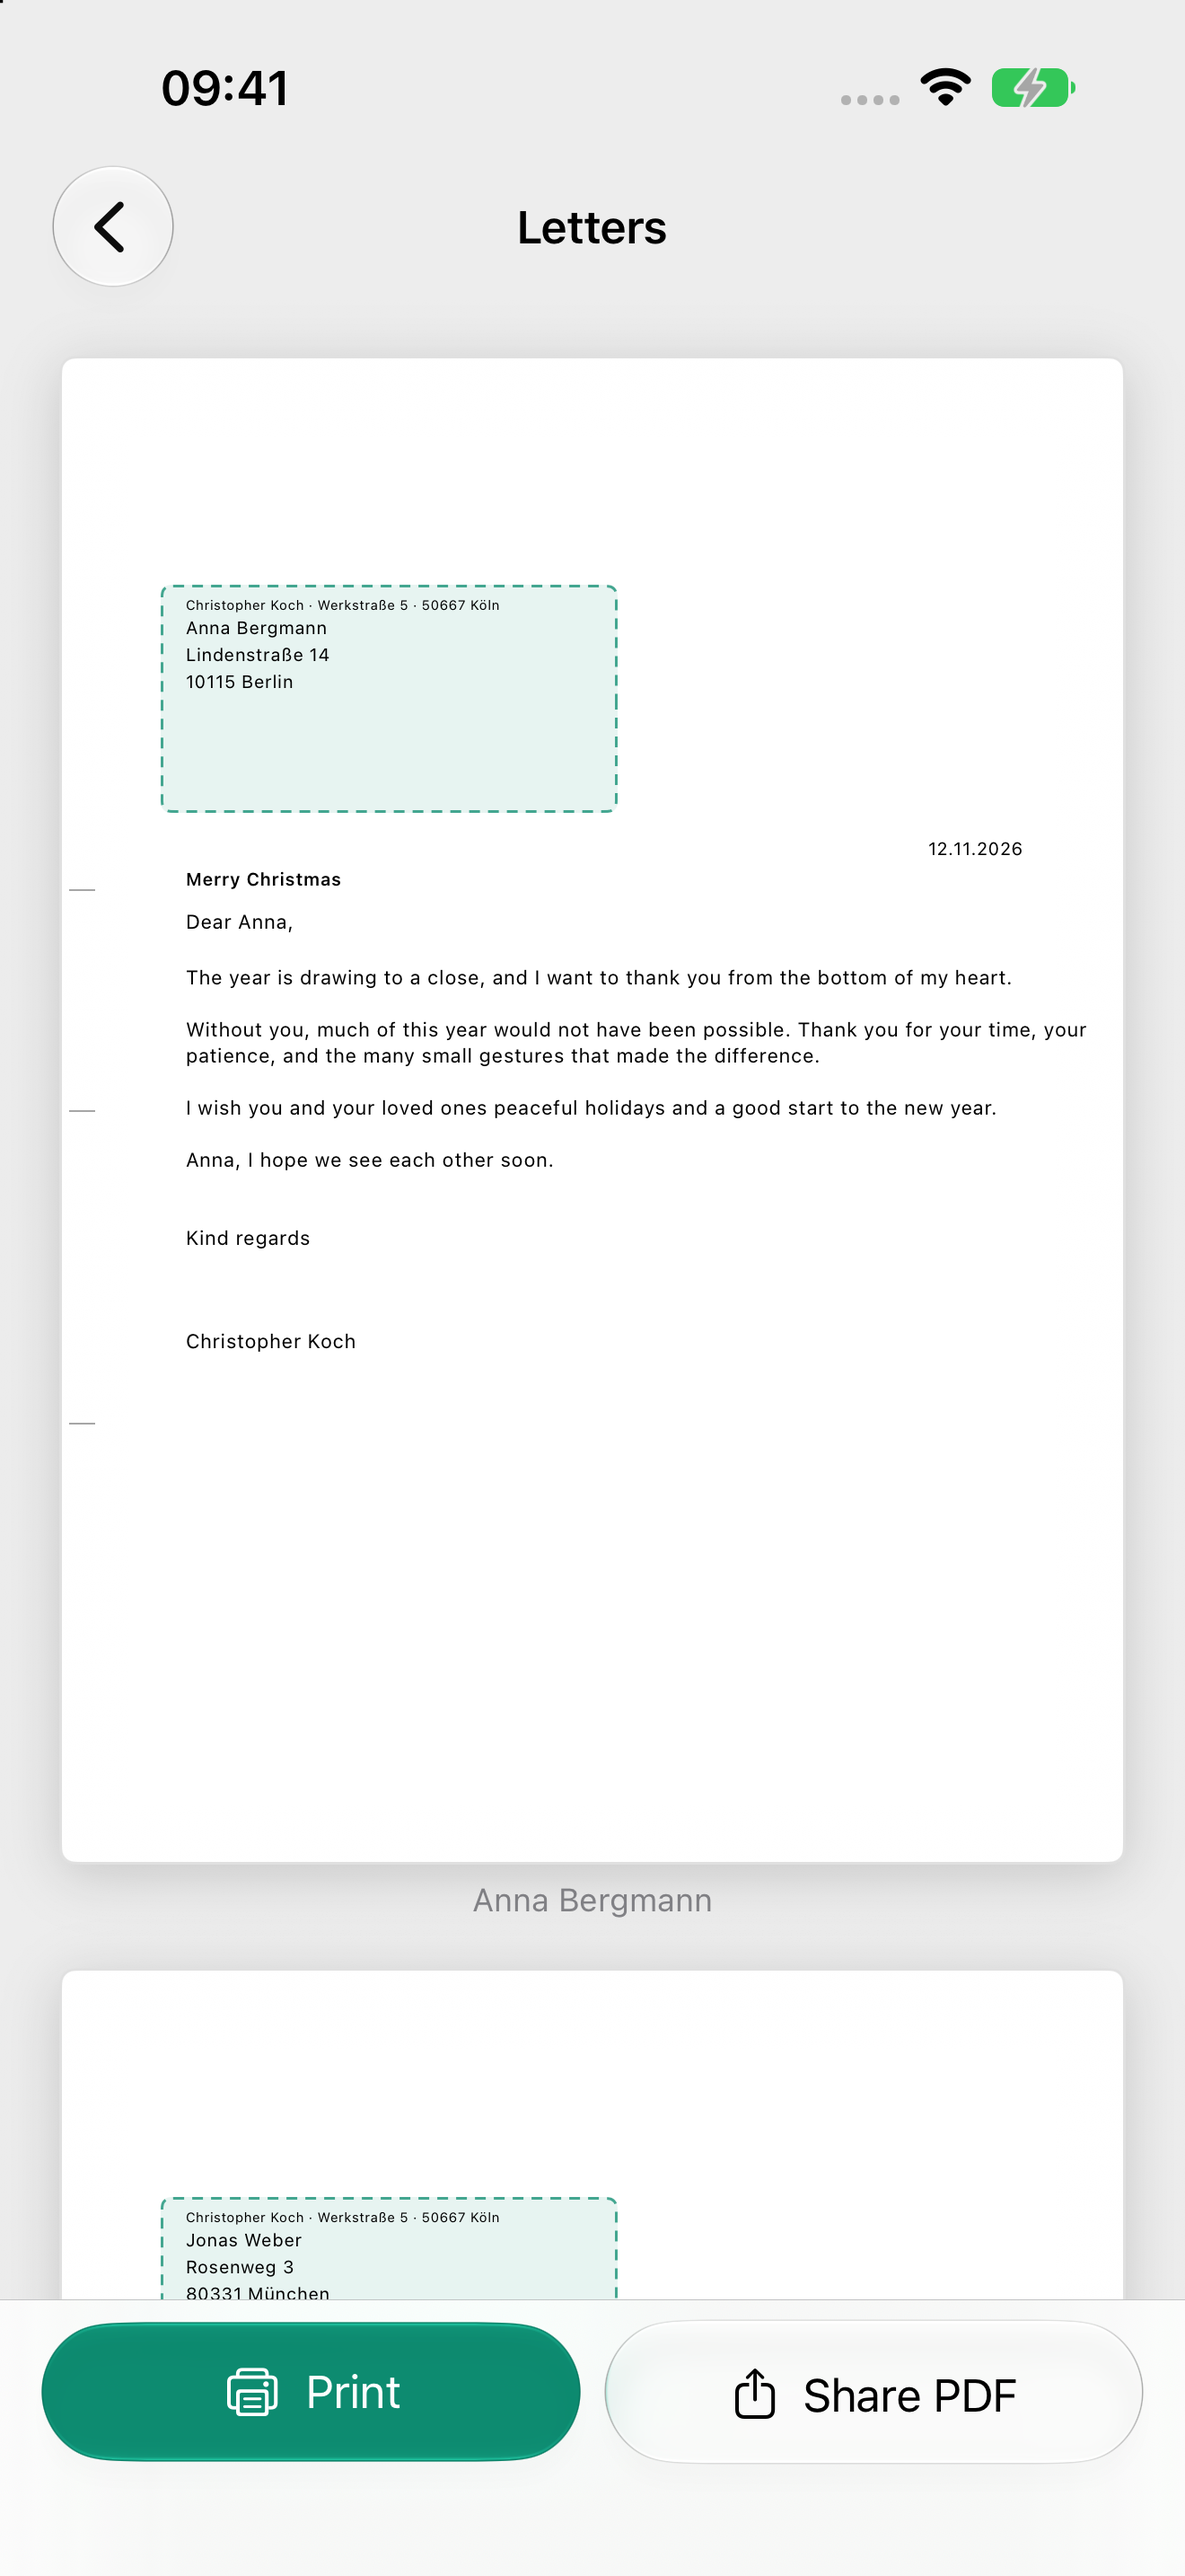
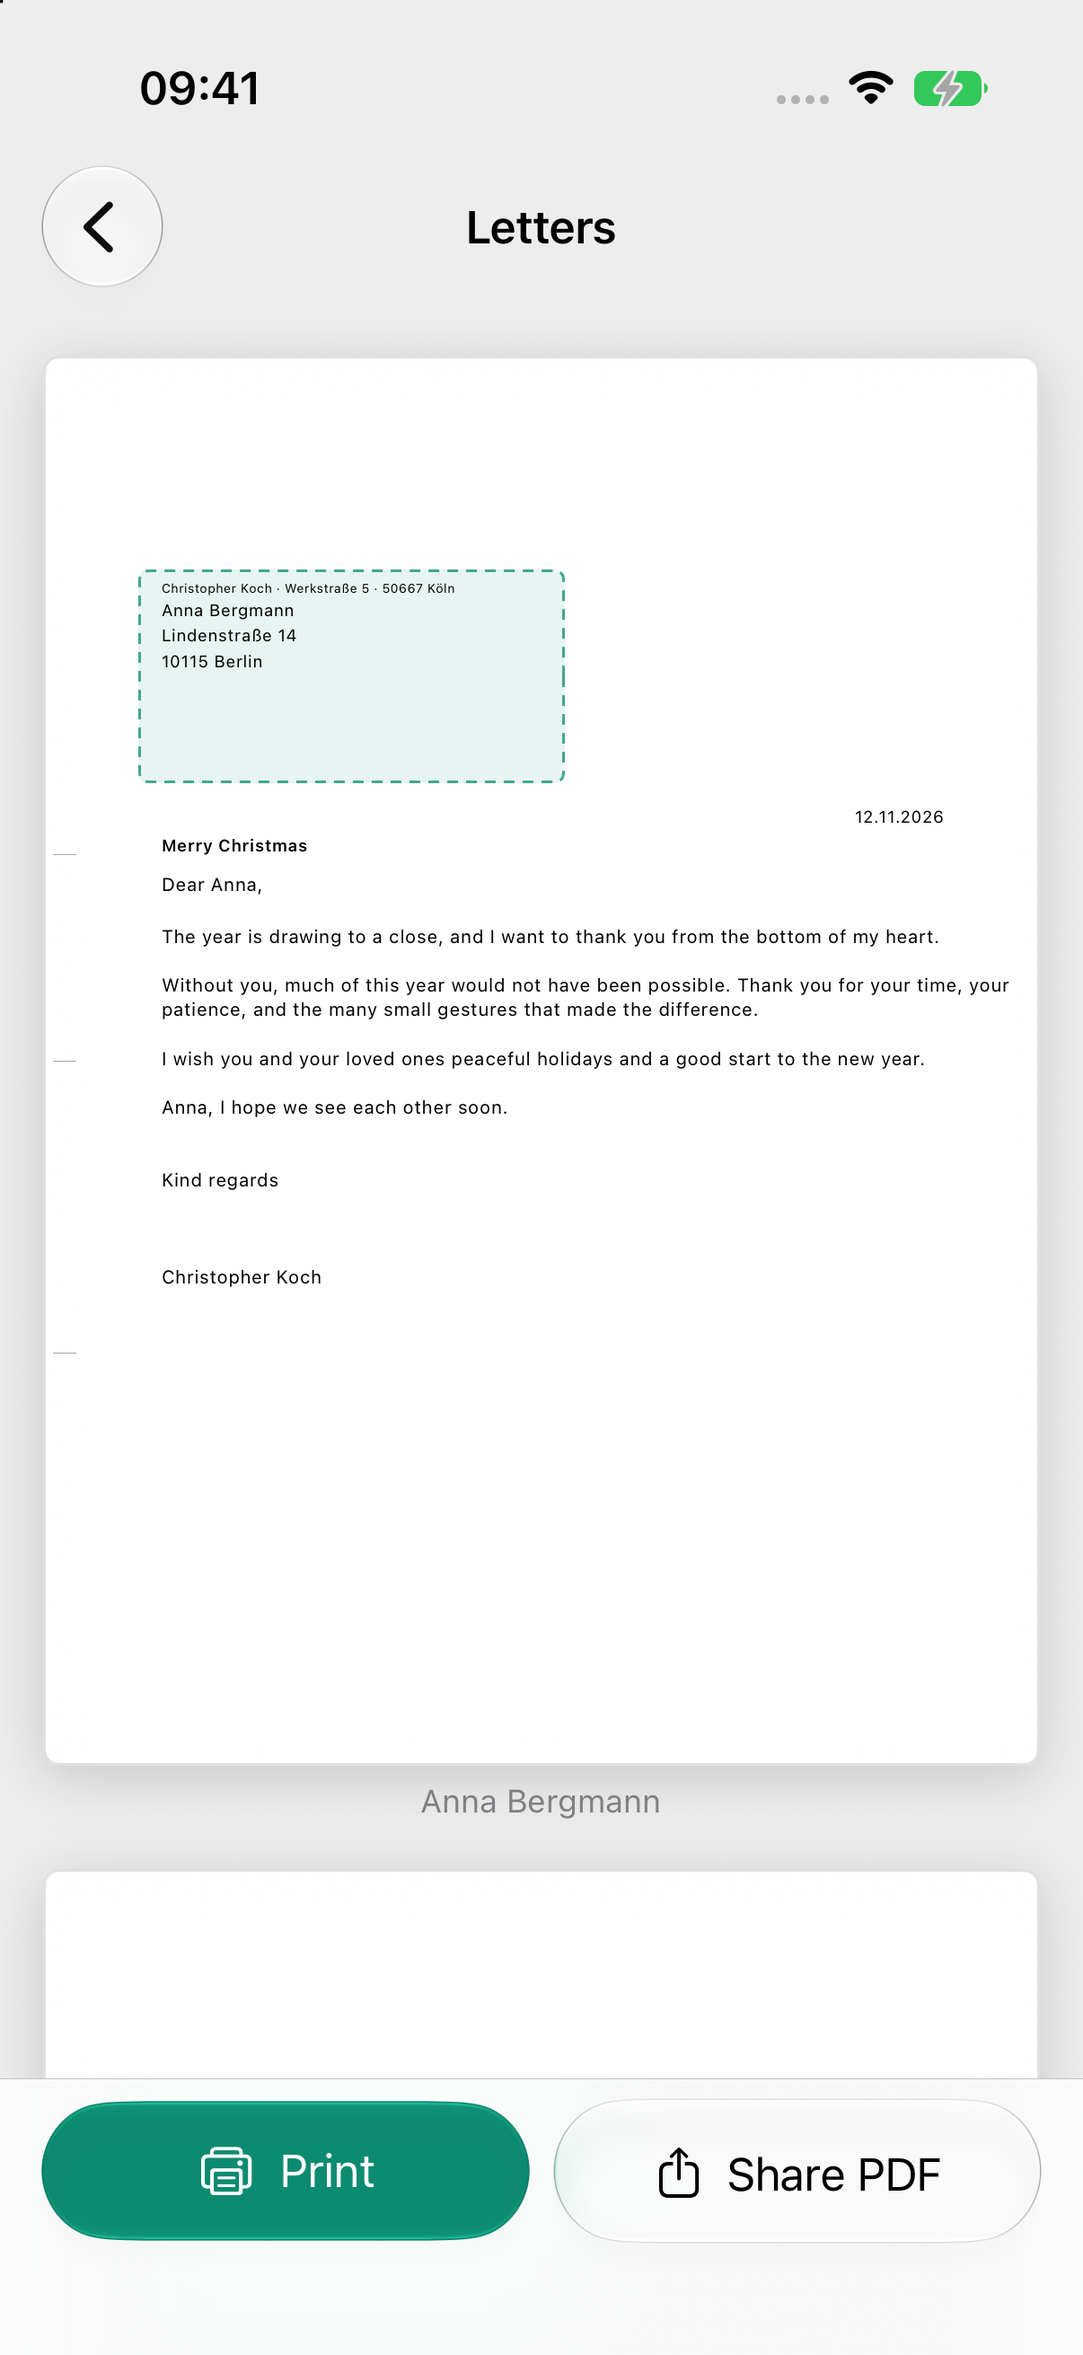
Postlet page: letters only, paid up front (#14)
Postlet and Labellet split. Postlet keeps letters, so the page no longer
promises labels and no longer mentions Pro — the app has no in-app purchase
any more.

- New tagline, description and highlights built around "one letter per
  recipient" instead of labels
- New icon (a letter sheet with an envelope) and new screenshots from the
  letters flow; the label preview and paywall shots are removed
- Privacy and support rewritten: no purchases, no network requests at all,
  folklore answers for fold marks and window envelopes

diff --git a/public/apps/postlet/index.html b/public/apps/postlet/index.html
@@ -4,12 +4,12 @@
 <meta charset="utf-8">
 <meta name="viewport" content="width=device-width, initial-scale=1">
 <meta name="apple-itunes-app" content="app-id=6833696477">
-<title>Postlet — Labels and letters, printed</title>
-<meta name="description" content="Print A4 address labels and DIN 5008 letters for a whole address list on your own printer. No account, nothing uploaded.">
+<title>Postlet — A personal letter for every recipient</title>
+<meta name="description" content="Write one letter and print it for everyone on your list. DIN 5008 Form B, window envelopes, a real preview — on your own printer. No account, nothing uploaded.">
 <meta property="og:type" content="website">
 <meta property="og:url" content="https://koch.codes/apps/postlet/">
-<meta property="og:title" content="Postlet — Labels and letters, printed">
-<meta property="og:description" content="Print A4 address labels and DIN 5008 letters for a whole address list on your own printer. No account, nothing uploaded.">
+<meta property="og:title" content="Postlet — A personal letter for every recipient">
+<meta property="og:description" content="Write one letter and print it for everyone on your list. DIN 5008 Form B, window envelopes, a real preview — on your own printer. No account, nothing uploaded.">
 <meta property="og:image" content="https://koch.codes/apps/postlet/media/og.png">
 <meta property="og:image:width" content="1200">
 <meta property="og:image:height" content="630">
@@ -31,9 +31,10 @@
     <div class="app-hero-text">
       <img class="app-icon" src="icon.png" width="96" height="96" alt="Postlet app icon">
       <h1 id="app-name">Postlet</h1>
-      <p class="tagline">Labels and letters, printed.</p>
-      <p class="intro">Print A4 address labels and DIN 5008 letters for a whole
-      address list, on your own printer. No account, no cloud, nothing uploaded.</p>
+      <p class="tagline">A personal letter for every recipient.</p>
+      <p class="intro">Write the letter once. Postlet prints it for everyone on your
+      list, each on its own page, addressed to that person — on your own printer.
+      No account, no cloud, nothing uploaded.</p>
       <div class="store-row">
       <a class="store-badge" href="https://apps.apple.com/app/id6833696477">
         <svg viewBox="0 0 384 512" fill="currentColor" aria-hidden="true"><path d="M318.7 268.7c-.2-36.7 16.4-64.4 50-84.8-18.8-26.9-47.2-41.7-84.7-44.6-35.5-2.8-74.3 20.7-88.5 20.7-15 0-49.4-19.7-76-19.7C63.3 141.2 4 184.8 4 273.5q0 39.3 14.4 81.2c12.8 36.7 59 126.7 107.2 125.2 25.2-.6 43-17.9 75.8-17.9 31.8 0 48.3 17.9 76.4 17.9 48.6-.7 90.4-82.5 102.6-119.3-65.2-30.7-61.7-90-61.7-91.9zm-56.6-164.2c27.3-32.4 24.8-61.9 24-72.5-24.1 1.4-52 16.4-67.9 34.9-17.5 19.8-27.8 44.3-25.6 71.9 26.1 2 49.9-11.4 69.5-34.3z"/></svg>
@@ -43,29 +44,33 @@
       <ul class="chips" aria-label="Details"><li>iPhone &amp; iPad</li><li>iOS 18 or later</li><li>Productivity</li></ul>
     </div>
     <div class="device">
-      <img src="media/preview.png" width="1320" height="2868" alt="Sheet preview showing twelve addresses laid out on an A4 label sheet" fetchpriority="high">
+      <img src="media/start.png" width="1320" height="2868" alt="Postlet start screen offering to write a letter, with saved recipient lists below" fetchpriority="high">
     </div>
   </section>
 
   <section class="section about">
     <div class="prose">
       <h2 class="section-title">What is Postlet?</h2>
-      <p>Pick recipients, choose your sheet, print. Labels are drawn as vector
-      graphics at exact page positions, so they line up instead of drifting. One
-      personalised letter per recipient follows the same list.</p>
+      <p>You have something to say to twelve people, and you want each of them to get
+      a real letter rather than a forwarded email. Postlet writes it once and prints
+      it twelve times: same text, each page addressed to one person, laid out to DIN
+      5008 Form B so it shows through a standard window envelope.</p>
+      <p>The preview is drawn from the same geometry the PDF uses, so what you see on
+      screen is what comes out of the printer — including the envelope window that the
+      address has to fit inside.</p>
     </div>
     <div>
       <h2 class="section-title">Highlights</h2>
       <ul class="features">
-          <li>Address labels for any A4 or Letter sheet, at exact positions</li>
-          <li>One personalised letter per recipient, DIN 5008 Form B for window envelopes</li>
-          <li>Fold marks that match the envelope you actually post in</li>
-          <li>Contacts picker, CSV import with column mapping, saved lists</li>
-          <li>Per-printer alignment correction — print a test sheet, save the offset</li>
-          <li>Print on a partly used sheet by choosing a start cell</li>
-          <li><strong>Free</strong>: up to 10 recipients per job, unlimited return-address sheets</li>
-          <li><strong>Postlet Pro</strong> (€9.99 once): no limit, saved lists, CSV import, more sheets, per-printer alignment</li>
-          <li>No account, no ads, no analytics — addresses never leave your device</li>
+          <li>DIN 5008 Form B layout: 25&nbsp;mm margin, address field at 45&nbsp;mm, 20&nbsp;mm filing margin</li>
+          <li>One letter per recipient, each starting on its own page</li>
+          <li><code>{name}</code> in the salutation or body becomes that recipient's first name</li>
+          <li>Window envelopes: DIN lang, C6/5, C6, C5 — the preview shows where the window lands</li>
+          <li>Fold marks and punch hole at their real positions, so folding is not guesswork</li>
+          <li>Contacts picker, CSV import and saved lists for the same people next year</li>
+          <li>Vector PDF, so text stays sharp at any printer resolution</li>
+          <li>Buy once. No subscription, no in-app purchase, no account</li>
+          <li>No ads, no analytics — addresses never leave your device</li>
       </ul>
     </div>
   </section>
@@ -73,10 +78,9 @@
   <section class="section" aria-labelledby="shots-title">
     <h2 class="section-title" id="shots-title">Screenshots</h2>
     <div class="shots few">
-      <figure><img src="media/recipients.png" width="1320" height="2868" alt="Recipients list with twelve addresses" loading="lazy"><figcaption>Your recipients</figcaption></figure>
-      <figure><img src="media/preview.png" width="1320" height="2868" alt="Sheet preview showing labels laid out on the page" loading="lazy"><figcaption>Exactly how it prints</figcaption></figure>
-      <figure><img src="media/letterPreview.png" width="1320" height="2868" alt="Letter preview with the envelope window outlined over the address" loading="lazy"><figcaption>The window, checked</figcaption></figure>
-      <figure><img src="media/paywall.png" width="1320" height="2868" alt="Postlet Pro features and price" loading="lazy"><figcaption>One purchase, no subscription</figcaption></figure>
+      <figure><img src="media/recipients.png" width="1320" height="2868" alt="Recipients screen listing twelve saved addresses" loading="lazy"><figcaption>Your recipients</figcaption></figure>
+      <figure><img src="media/letter.png" width="1320" height="2868" alt="Letter composer with salutation, subject and body text" loading="lazy"><figcaption>Written once</figcaption></figure>
+      <figure><img src="media/letterPreview.png" width="1320" height="2868" alt="Letter preview with the envelope window outlined over the address block" loading="lazy"><figcaption>The window, checked</figcaption></figure>
     </div>
   </section>
 

diff --git a/public/apps/postlet/support.html b/public/apps/postlet/support.html
@@ -16,56 +16,56 @@
 
   <div class="card">
     <p style="margin:0">Email <a href="mailto:feedback@koch.codes">feedback@koch.codes</a>
-    and we'll get back to you. Please include your printer model and the label
-    sheet you used if you're reporting an alignment problem. Please don't send
-    real address lists.</p>
+    and we'll get back to you. Please include your printer model and the envelope
+    you used if you're reporting a layout problem. Please don't send real address
+    lists.</p>
   </div>
 
-  <h2>How do I print labels?</h2>
-  <p>Open Postlet, choose <em>Address labels</em>, add recipients from Contacts,
-  type them in or import a CSV, then pick your sheet and tap <em>Preview</em>.
-  From there you can print or share the PDF.</p>
+  <h2>How do I print letters?</h2>
+  <p>Open Postlet, tap <em>Write a letter</em>, add recipients from Contacts, type
+  them in or import a CSV, then tap <em>Write the letter</em>. Fill in the
+  salutation, subject and body, then tap <em>Preview</em>. From there you can print
+  or share the PDF.</p>
 
-  <h2>My labels are slightly off the sheet</h2>
-  <p>That is normal — every printer shifts slightly. Open <em>Test sheet &amp;
-  alignment</em>, print the test sheet on plain paper, hold it against a real
-  label sheet and compare the cell edges. Then save a correction for that
-  printer. Each printer can have its own.</p>
-
-  <h2>Printing at 100%</h2>
-  <p>In the print dialog choose <strong>100%</strong> or <strong>Actual
-  Size</strong>. "Fit to Page" rescales the page and moves every label, so
-  nothing lines up.</p>
-
-  <h2>What is a partial sheet?</h2>
-  <p>If you have already used some labels, choose a start cell. The labels before
-  that cell stay empty, exactly like on paper, so you don't waste a sheet.</p>
-
-  <h2>Which envelope should I choose?</h2>
-  <p>Pick the one you actually post in. Postlet lays the letter out to DIN 5008
-  Form B (a German standard) and prints fold marks for that envelope, then shows
-  the window in the preview so you can confirm the address will be visible.</p>
-
-  <h2>How does {name} work?</h2>
+  <h2>What does {name} do?</h2>
   <p>Write the letter once and use <code>{name}</code> wherever the first name
   belongs — in the salutation or the body. Each recipient then gets their own
   letter. If a name is a company or a single word, Postlet uses the whole name
   instead of guessing a first name.</p>
 
-  <h2>What is free, what is Pro?</h2>
-  <p>Free prints up to 10 recipient labels or letters per job, and return-address
-  sheets are always unlimited. Postlet Pro is a one-time purchase (no
-  subscription) that removes the limit and adds saved lists, CSV import, more
-  label sheets, your own sheet measurements and per-printer alignment.
-  <em>Restore purchase</em> is on the Pro screen.</p>
+  <h2>Which envelope should I choose?</h2>
+  <p>Pick the one you actually post in. Postlet lays the letter out to DIN 5008
+  Form B (a German standard) and prints fold marks for that envelope, then shows
+  the window in the preview so you can confirm the address will be visible. If the
+  preview warns that an address does not fit the window, shorten it or choose a
+  larger envelope.</p>
+
+  <h2>Where do the fold marks go?</h2>
+  <p>The preview draws the same marks the PDF prints, in the left filing margin.
+  Fold there and the address block ends up in the window of the envelope you
+  selected.</p>
+
+  <h2>Printing at 100%</h2>
+  <p>In the print dialog choose <strong>100%</strong> or <strong>Actual
+  Size</strong>. "Fit to Page" rescales the page and moves the address block, so
+  it may no longer line up with the envelope window.</p>
+
+  <h2>My letter is slightly off</h2>
+  <p>Check that the print dialog is not set to scale the page, and that your
+  printer is feeding A4 rather than US Letter. Postlet draws everything at the
+  exact physical page size, so a correct printer needs no adjustment.</p>
+
+  <h2>Do I have to pay again?</h2>
+  <p>No. Postlet is a one-time purchase. There is no subscription, no in-app
+  purchase and no account — every feature is available the first time you open
+  the app.</p>
 
   <h2>Do my addresses leave my device?</h2>
   <p>No. There is no account and no server, and no address is ever uploaded. You
   can delete every saved address in Settings.</p>
 
   <h2>Does it work offline?</h2>
-  <p>Yes. Postlet needs no internet connection. iOS contacts the App Store only
-  to load or restore the purchase.</p>
+  <p>Yes, completely. Postlet makes no network requests at all.</p>
 
   <footer>&copy; Christopher Koch &middot; <a href="index.html">Postlet</a> &middot; <a href="privacy.html">Privacy Policy</a></footer>
 </div>

diff --git a/public/apps/postlet/privacy.html b/public/apps/postlet/privacy.html
@@ -14,9 +14,8 @@
   <h1>Privacy Policy</h1>
   <p class="meta">Last updated: November 2026</p>
 
-  <p>Postlet prints address labels and letters for the address lists you
-  choose. There is no account, no backend and no analytics. Your addresses stay
-  on your device.</p>
+  <p>Postlet prints personal letters for the address lists you choose. There is
+  no account, no backend and no analytics. Your addresses stay on your device.</p>
 
   <h2>Data collection</h2>
   <p><strong>Data Not Collected.</strong> The developer does not collect any data
@@ -26,7 +25,7 @@
   <h2>Contacts</h2>
   <p>Postlet reads your contacts only when you open the picker and select people
   yourself. It reads only the postal address of the contacts you pick, uses it to
-  lay out the label or letter, and never modifies, syncs or uploads your address
+  lay out the letter, and never modifies, syncs or uploads your address
   book. Contact access is requested the first time you open the picker, and the
   app works fully without it: you can type addresses or import a CSV instead.</p>
 
@@ -37,7 +36,7 @@
   where you choose to save them.</p>
 
   <h2>Printing</h2>
-  <p>Labels and letters are rendered as PDF on your device and handed to Apple's
+  <p>Letters are rendered as PDF on your device and handed to Apple's
   system print or share sheet. Whatever you do there — print, save to Files, send
   by Mail — is handled by iOS under your control. Postlet never transmits the
   document itself.</p>
@@ -45,15 +44,9 @@
   <h2>Camera</h2>
   <p>Postlet does not use the camera.</p>
 
-  <h2>Purchases</h2>
-  <p>Postlet Pro is a one-time In-App Purchase handled entirely by Apple. The
-  developer receives no payment details, and Postlet has no account to tie a
-  purchase to.</p>
-
   <h2>Networking</h2>
-  <p>Postlet makes no network requests of its own. The App Store is contacted by
-  iOS only to load and restore the purchase; the app itself has no servers and
-  works offline.</p>
+  <p>Postlet makes no network requests at all. There is no server and works
+  fully offline, including printing.</p>
 
   <h2>Diagnostics</h2>
   <p>If you opt in to "Share With App Developers" in your device settings, Apple
